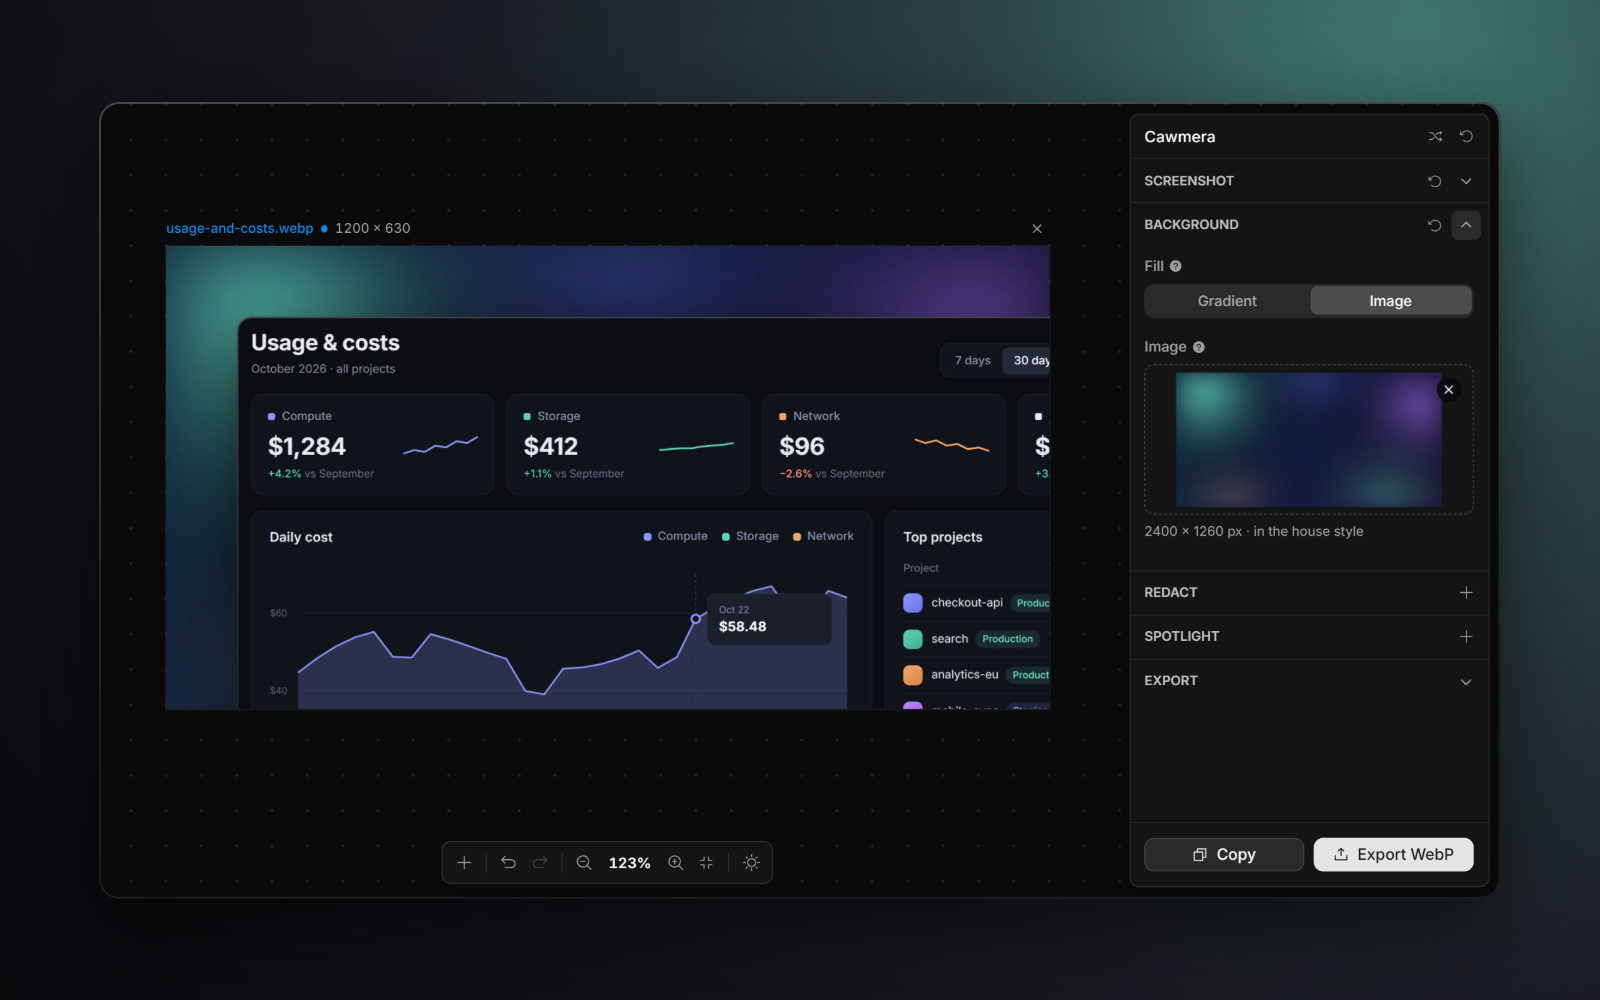
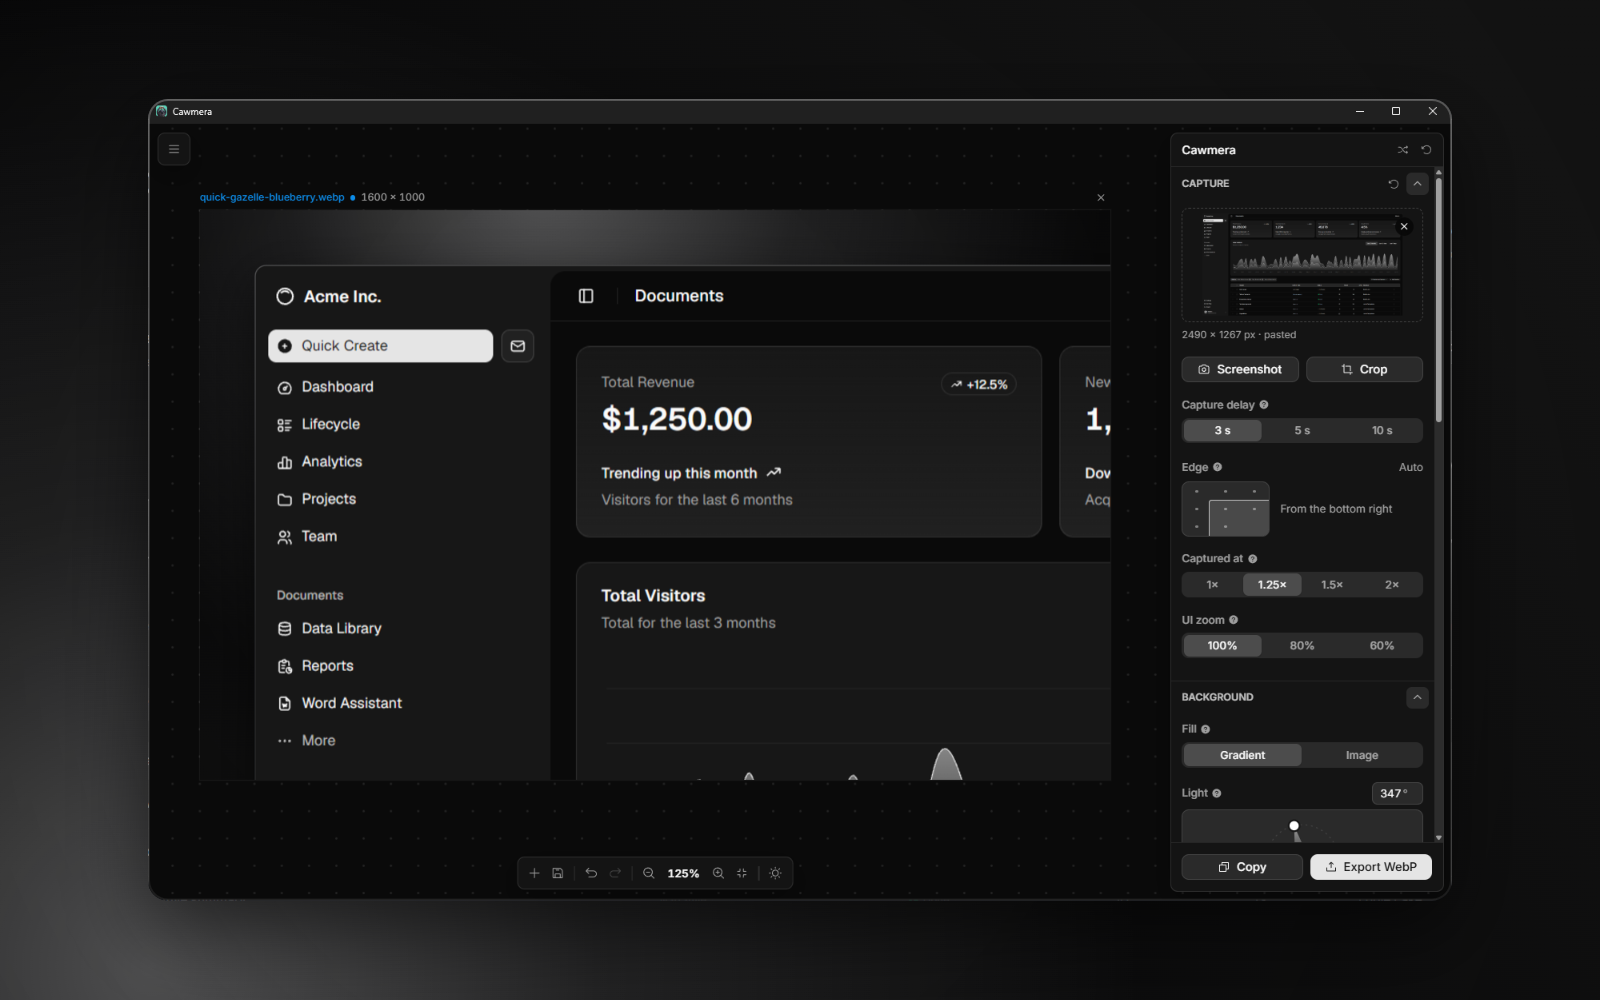
README: a new hero image of Cawmera 0.8, framed by Cawmera

diff --git a/README.md b/README.md
@@ -15,7 +15,7 @@ Every image and video gets the same background and shows the UI at the same scal
 <br>
 
 <p align="center">
-  <img src=".github/assets/hero.webp" alt="Cawmera's own window, framed by Cawmera on a graphite background with a mint light. On its canvas, a dashboard screenshot is being made into an Article (OG) image with a background image.">
+  <img src=".github/assets/hero.webp" alt="Cawmera's own window, framed by Cawmera on a dark background with a soft grey light. On its canvas, a dashboard screenshot named quick-gazelle-blueberry is being framed at 1600 × 1000, with the Capture and Background sections open beside it.">
 </p>
 <p align="center"><sub>Cawmera, framed by Cawmera.</sub></p>
 
